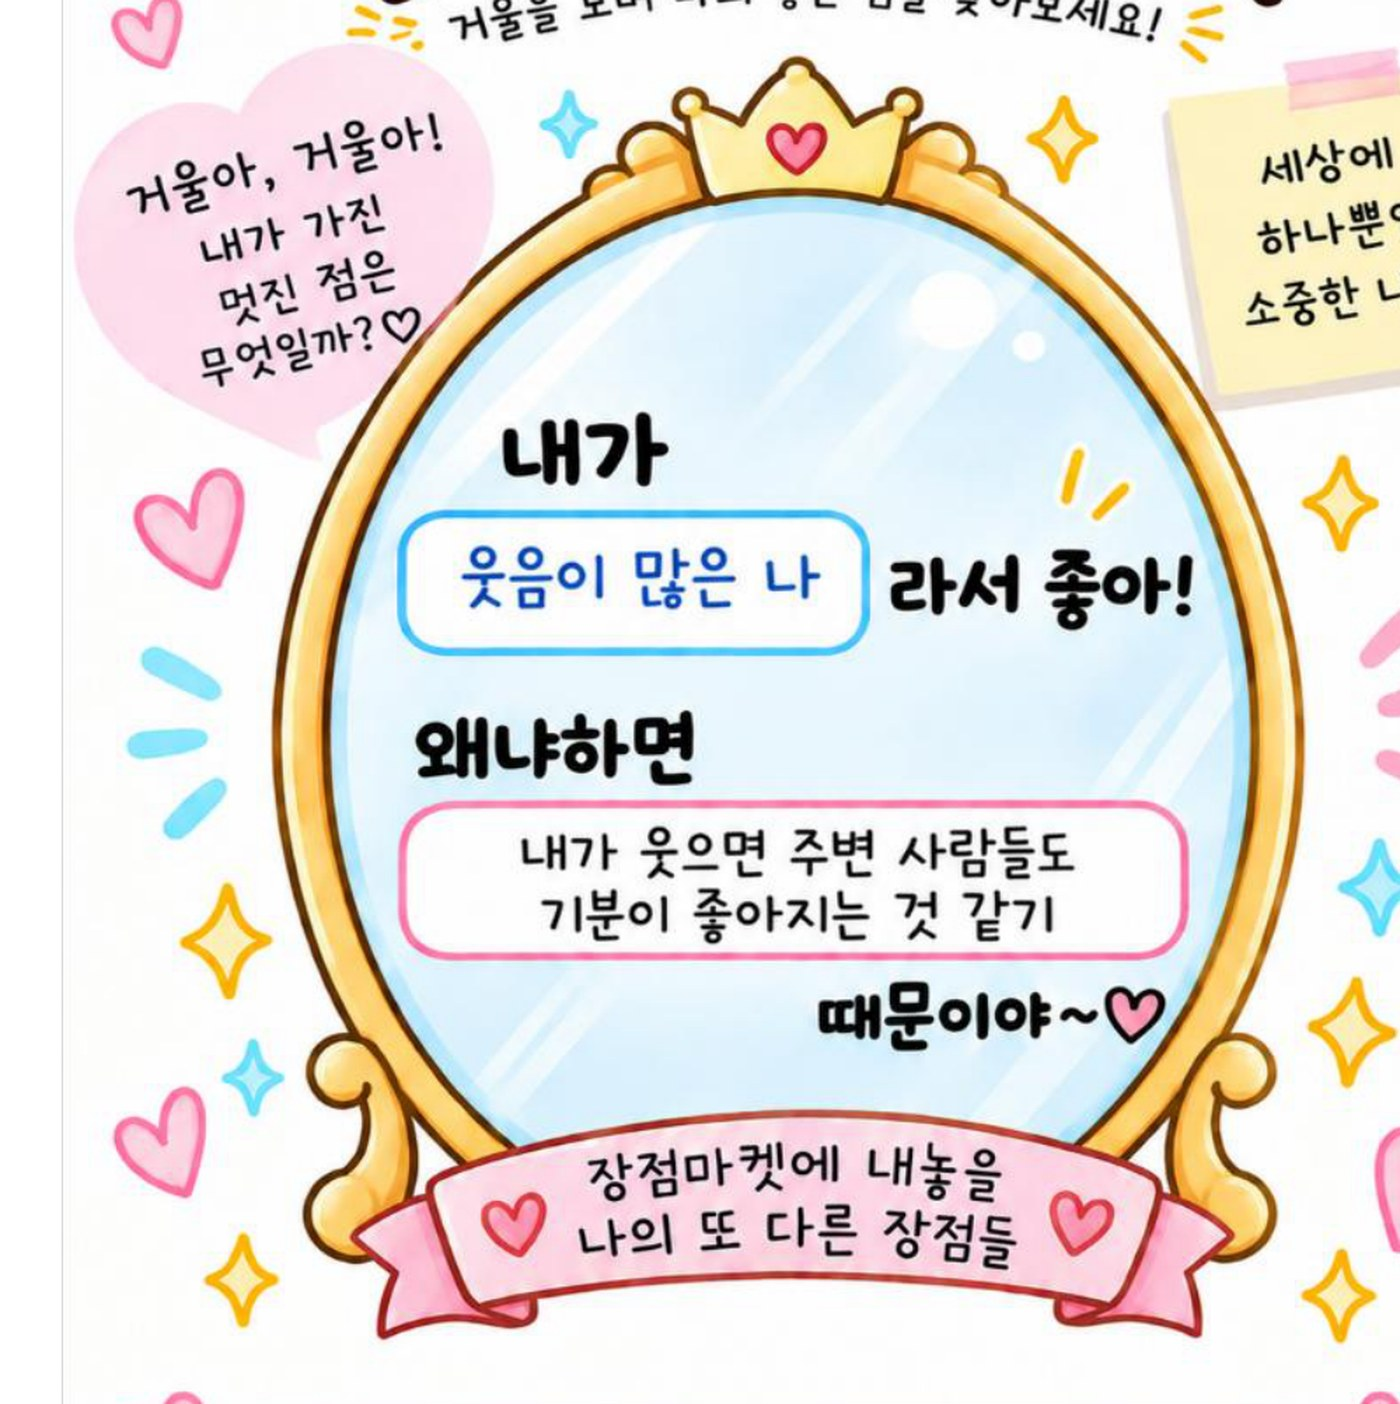
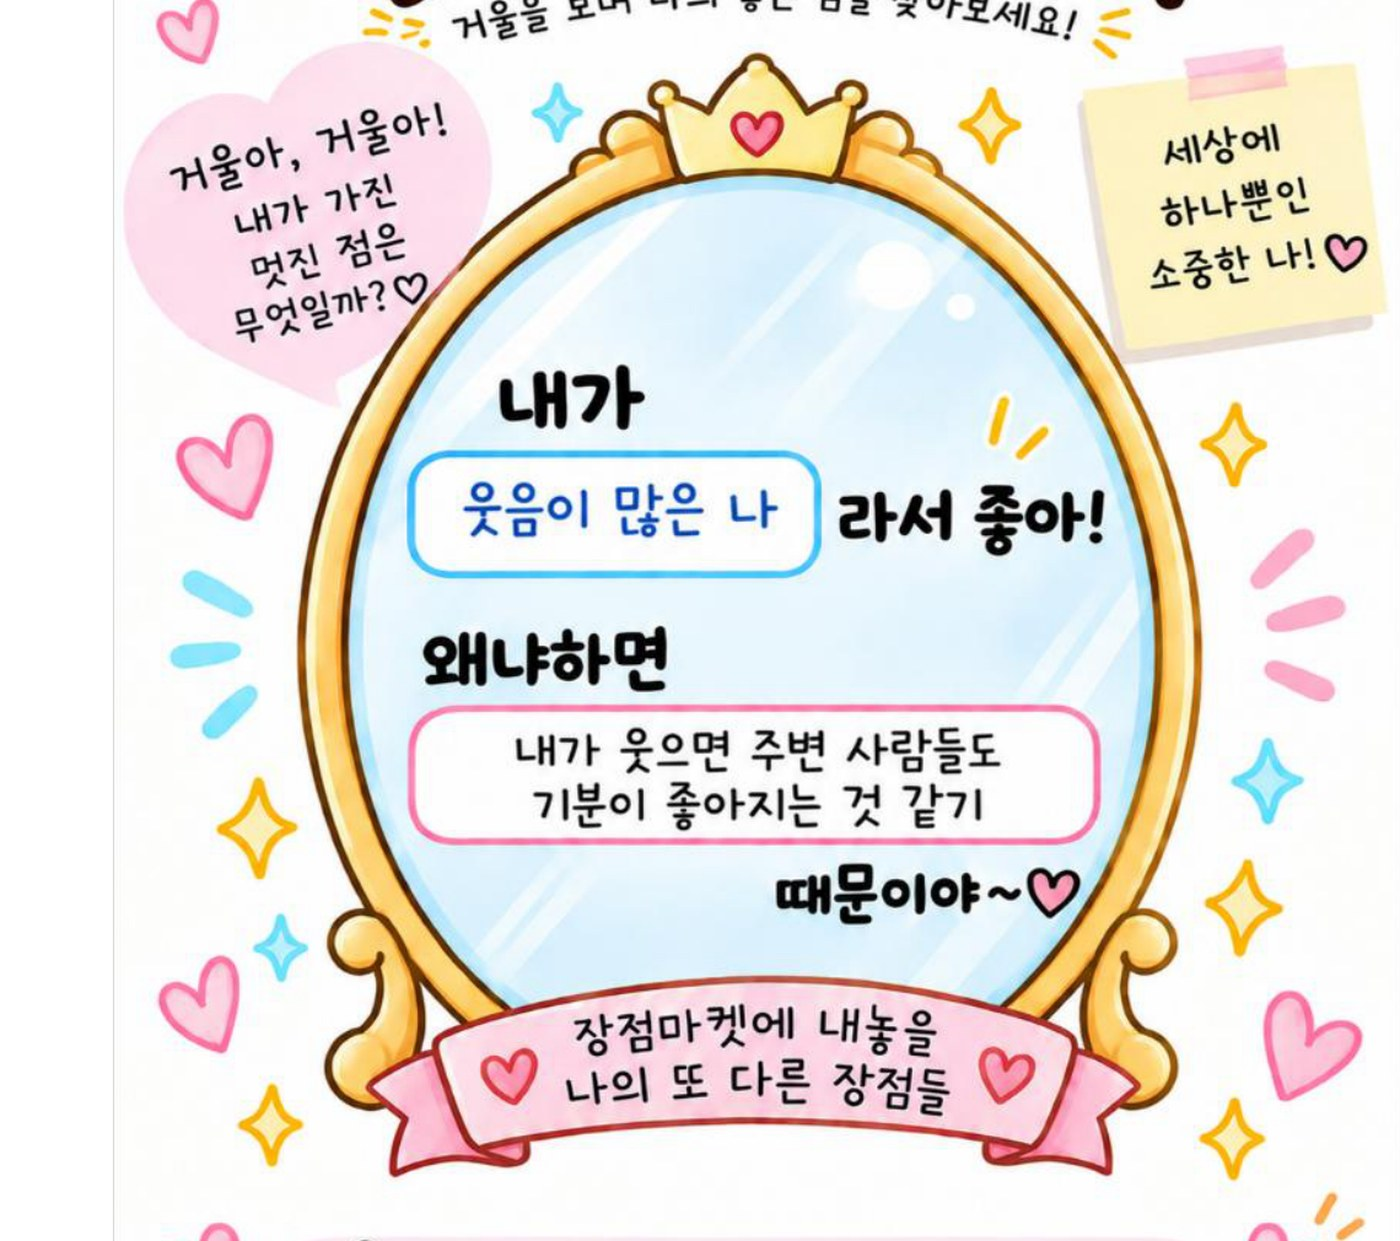
학습목표 제목 문구 변경 · 예시 두 장 크기 통일 · 활동1 타이머 3·4·5분 · 그림도 캐시 갱신
① 「오늘의 학습 목표」 → 「오늘 공부할 문제」 (오늘=검정 / 공부할 문제=초록, 주아체로 같은 크기·자리)
   노란 점 장식은 새 글자 바깥으로 옮겨 붙임
② 예시 1·2: 흰 여백을 자동으로 잘라내고 두 장을 같은 크기 상자(1400×1241)로 맞춤.
   2번 예시가 작아 보이던 문제(왼쪽 여백) 해결
③ 활동1 타이머 칩에 「3분·4분·5분」 빠른 선택 추가. 누르면 그 시간으로 맞춰지고 설정에도 저장
④ ⚠ 그림도 브라우저가 옛것을 붙들고 있었다 → 그림 주소에 ?v=<버전>을 붙여 새 그림을 받도록
   (APP_VER 를 window 전역으로 올려 HTML·그림 모두에서 쓴다)

Claude-Session: https://claude.ai/code/session_01HwcFfa8KNXHyJGf1Wknv3A

diff --git a/index.html b/index.html
@@ -10,6 +10,7 @@
 <link rel="preconnect" href="https://fonts.googleapis.com">
 <link rel="preconnect" href="https://fonts.gstatic.com" crossorigin>
 <link href="https://fonts.googleapis.com/css2?family=Jua&family=Gaegu:wght@400;700&display=swap" rel="stylesheet">
+<script>window.APP_VER="20260910-1613";</script>
 <style>
   :root{
     --bg:#FFF7ED; --card:#FFFFFF; --ink:#1F2937; --sub:#6B7280;
@@ -164,6 +165,13 @@
   .songwrap{flex:1 1 auto;width:100%;height:100%;display:flex;align-items:center;justify-content:center;background:#000;border-radius:16px;overflow:hidden}
   .songwrap[hidden]{display:none}
   .songwrap iframe{width:100%;height:100%;aspect-ratio:16/9;border:0}
+  .tpreset{display:flex; gap:5px; margin-left:6px; padding-left:8px; border-left:2px dashed var(--line,#e3ddf3)}
+  .tpreset[hidden]{display:none}
+  .tpreset button{
+    font-family:inherit; font-size:clamp(13px,1.7vh,17px); font-weight:800; cursor:pointer;
+    border:2px solid var(--line,#e3ddf3); background:#fff; color:var(--sub); border-radius:12px; padding:.3em .6em;
+  }
+  .tpreset button.on{background:var(--theme,#7c5cd6); border-color:var(--theme,#7c5cd6); color:#fff}
   .bgmbar{display:flex; align-items:center; gap:8px}
   .bgmvol{display:flex; align-items:center; gap:6px; background:rgba(255,255,255,.9);
     border:2px solid var(--line,#e3ddf3); border-radius:16px; padding:.35em .7em; font-size:15px}
@@ -440,6 +448,13 @@
     .songwrap{flex:1 1 auto;width:100%;height:100%;display:flex;align-items:center;justify-content:center;background:#000;border-radius:16px;overflow:hidden}
   .songwrap[hidden]{display:none}
   .songwrap iframe{width:100%;height:100%;aspect-ratio:16/9;border:0}
+  .tpreset{display:flex; gap:5px; margin-left:6px; padding-left:8px; border-left:2px dashed var(--line,#e3ddf3)}
+  .tpreset[hidden]{display:none}
+  .tpreset button{
+    font-family:inherit; font-size:clamp(13px,1.7vh,17px); font-weight:800; cursor:pointer;
+    border:2px solid var(--line,#e3ddf3); background:#fff; color:var(--sub); border-radius:12px; padding:.3em .6em;
+  }
+  .tpreset button.on{background:var(--theme,#7c5cd6); border-color:var(--theme,#7c5cd6); color:#fff}
   .bgmbar{display:flex; align-items:center; gap:8px}
   .bgmvol{display:flex; align-items:center; gap:6px; background:rgba(255,255,255,.9);
     border:2px solid var(--line,#e3ddf3); border-radius:16px; padding:.35em .7em; font-size:15px}
@@ -600,6 +615,7 @@
       <button class="tbtn go" id="startBtn">시작</button>
       <button class="tbtn" id="plusBtn">+1분</button>
       <button class="tbtn" id="resetBtn">↺</button>
+      <span class="tpreset" id="tPreset"></span>
     </div>
 
     <div class="bgmbar" id="bgmBar" hidden>
@@ -811,7 +827,7 @@
     {img:"img/ex2.jpg",        stage:2, name:"예시 2"},
     {img:"img/carrots.jpg",    stage:2, name:"장점 4칸"},
     {img:"img/hintcard.jpg",   stage:2, name:"장점 힌트 카드"},
-    {img:"img/worksheet.jpg",  stage:2, act:"write",  sec:"s2", name:"장점 쓰기"},
+    {img:"img/worksheet.jpg",  stage:2, act:"write",  sec:"s2", mins:[3,4,5], name:"장점 쓰기"},
     {img:"img/act2.jpg",       stage:3, name:"활동 2"},
     {img:"img/market.jpg",     stage:3, name:"장점마켓 안내"},
     {img:"img/market.jpg",     stage:3, act:"market", sec:"s3", name:"당근 장점마켓"},
@@ -882,6 +898,11 @@
     DECK = BASE_DECK.slice();
     if(songId()) DECK.unshift({img:"img/intro.jpg", stage:1, song:true, name:"노래 부르기"});
     if(idx >= DECK.length) idx = DECK.length - 1;
+  }
+  /* 그림도 브라우저가 옛것을 붙들지 않도록 주소에 버전을 붙인다 */
+  function bust(u){
+    if(!u || /^(data:|blob:|https?:)/.test(u) || u.indexOf("v=") >= 0) return u;
+    return u + (u.indexOf("?") < 0 ? "?" : "&") + "v=" + window.APP_VER;
   }
   function cur(){ return DECK[idx]; }
   function actSec(a){ return a ? cfg[cur().sec].sec : 0; }
@@ -1169,6 +1190,7 @@
   function setTimer(sec){
     T.total = sec * 1000; T.remain = T.total; T.run = false; T.warned = false;
     document.body.classList.remove("warn");
+    if(document.getElementById("tPreset")) renderPreset();
   }
   function play(){
     if(!cur().act) return;
@@ -1187,6 +1209,24 @@
     bell(); renderTimer();
   }
 
+  function renderPreset(){
+    var box = $("tPreset");
+    var mins = cur().mins;
+    if(!mins || !cur().act){ box.hidden = true; box.innerHTML = ""; return; }
+    box.hidden = false;
+    var now = Math.round(T.total / 60000);
+    box.innerHTML = "";
+    mins.forEach(function(m){
+      var b = document.createElement("button");
+      b.textContent = m + "분";
+      if(m === now) b.className = "on";
+      b.onclick = function(){
+        cfg[cur().sec].sec = m * 60; saveCfg();
+        setTimer(m * 60); renderTimer(); renderPreset();
+      };
+      box.appendChild(b);
+    });
+  }
   function renderTimer(){
     var a = cur().act;
     if(!a){ tchip.hidden = true; return; }
@@ -1268,7 +1308,7 @@
   function bookUrl(i){                       // i = 범위 안 순번
     var r = bookRange(), k = r[0] + i;
     if(k < 0 || k >= bookTotal()) return "";
-    if(usingBuiltin()) return BUILTIN_BOOK[k];
+    if(usingBuiltin()) return bust(BUILTIN_BOOK[k]);
     if(!bookUrls[k]) bookUrls[k] = URL.createObjectURL(BOOK[k]);
     return bookUrls[k];
   }
@@ -1533,7 +1573,7 @@
         wrap.className = "pop" + (fxOpen[key] ? " in" : "");
         wrap.style.left = sp.x + "%"; wrap.style.top = sp.y + "%";
         wrap.style.width = sp.w + "%"; wrap.style.height = sp.h + "%";
-        wrap.innerHTML = '<img src="' + sp.pop + '" alt="' + esc(sp.label || "") + '">';
+        wrap.innerHTML = '<img src="' + bust(sp.pop) + '" alt="' + esc(sp.label || "") + '">';
         box.appendChild(wrap);
 
         var tap = document.createElement("button");
@@ -1602,7 +1642,7 @@
     }
 
     var n = (s.act === "book") ? bookCount() : 0;
-    var src = n ? bookUrl(Math.min(bookIdx, n - 1)) : s.img;
+    var src = n ? bookUrl(Math.min(bookIdx, n - 1)) : bust(s.img);
     if(shot.getAttribute("src") !== src) shot.setAttribute("src", src);
     shot.setAttribute("alt", s.name);
 
@@ -1628,6 +1668,7 @@
     $("slideNo").textContent = (idx + 1) + " / " + DECK.length;
 
     renderTimer();
+    renderPreset();
     syncBgm();
     buildFx();
   }
@@ -1992,7 +2033,7 @@
   loadYTApi();
   // 다음 슬라이드 미리 받아두기
   buildDeck();
-  BASE_DECK.forEach(function(s){ var im = new Image(); im.src = s.img; });
+  BASE_DECK.forEach(function(s){ var im = new Image(); im.src = bust(s.img); });
 
   bgmFileLoad().then(function(f){ BGM_FILE = f || null; bgmFileStat(); syncBgm(); });
   $("bgmAudio").addEventListener("error", function(){
@@ -2009,7 +2050,7 @@
 <script>
 /* 새 버전이 올라오면 브라우저가 옛 화면을 붙들고 있지 않도록 스스로 다시 받아온다 */
 (function(){
-  var APP_VER = "20260910-1605";
+  var APP_VER = window.APP_VER;
   try{
     fetch("version.txt?t=" + Date.now(), {cache:"no-store"})
       .then(function(r){ return r.ok ? r.text() : ""; })
